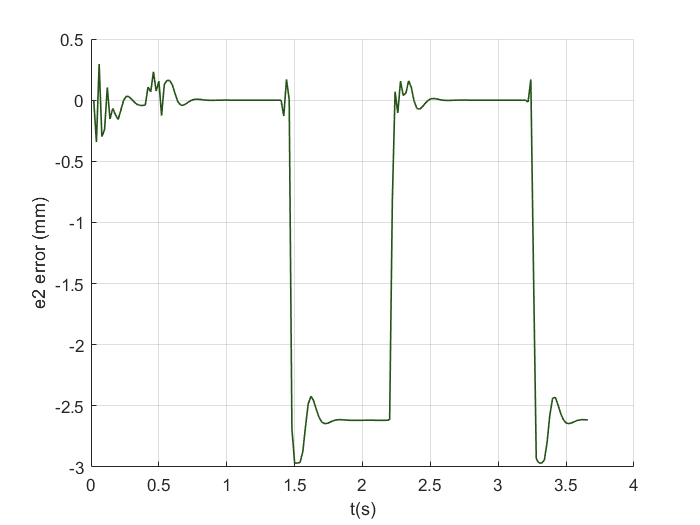
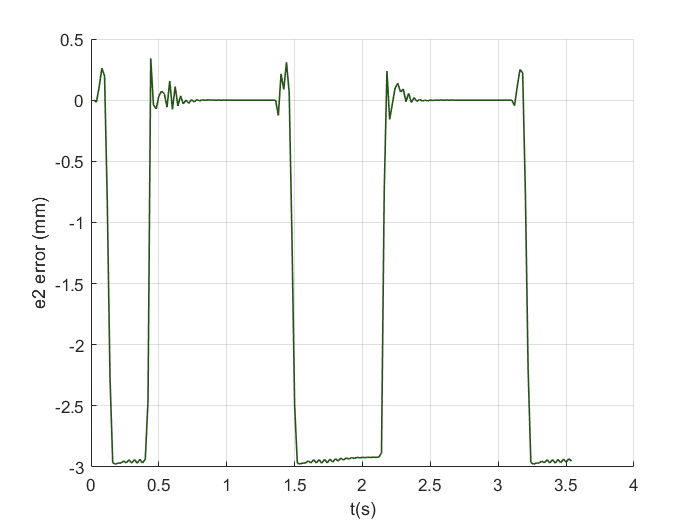
add simplified fuzzy

diff --git a/compute_error.m b/compute_error.m
@@ -1,6 +1,8 @@
 function [e1, e2, e2_gt, e3, e3_gt] = compute_error(x_control, y_control, phi, x_R, y_R, phi_R, s, sensor_data, e2_prev, ds)
-    % Compute e2 from sensors
+    % Compute e2 ground truth    
     e2_gt = -(x_R - x_control)*sin(phi) + (y_R - y_control)*cos(phi);
+
+    % Compute e2 from sensors
     weights = [-3 -2 -1 0 1 2 3];
     sensor_d = abs(weights*s - e2_gt);
     analogs = interp1(sensor_data(:, 1), sensor_data(:, 2), sensor_d, 'spline');
@@ -9,7 +11,8 @@ function [e1, e2, e2_gt, e3, e3_gt] = compute_error(x_control, y_control, phi, x
     else
         e2 = abs(sum(weights.*analogs)/sum(analogs));
     end
-    CR = calc_distances([x_control, y_control], [x_R, y_R]);
+    
+    
     e1 = (x_R - x_control)*cos(phi) + (y_R - y_control)*sin(phi);
     e3_gt = phi_R - phi;
     if e3_gt > 6

diff --git a/main.m b/main.m
@@ -15,7 +15,8 @@ function main(v_ref)
 
     % Control
     % --Fuzzy
-    fuzzy_obj = readfis('fuzzy_configs');
+%     fuzzy_obj = readfis('fuzzy_configs');
+    fuzzy_obj = readfis('fuzzy_simplified');
     
     t_samp = 0.02;
     t_sensor = 0.0015;
@@ -110,7 +111,7 @@ function main(v_ref)
             e2_prev = 0;
         end
         [e1, e2, e2_gt, e3, e3_gt] = compute_error(x_control, y_control, phi, x_R, y_R, phi_R, sensor_interval, sensor_data, e2_prev, ds);
-        v_out = evalfis([e2 e2-e2_prev], fuzzy_obj);
+        v_out = evalfis(fuzzy_obj, [e2 e2-e2_prev]);
         v_l = rpm2v(v_out(2), wheel_radius);
         v_r = rpm2v(v_out(1), wheel_radius);
         [v, omega] = lr2vomega(v_l, v_r, wheel_distance);
